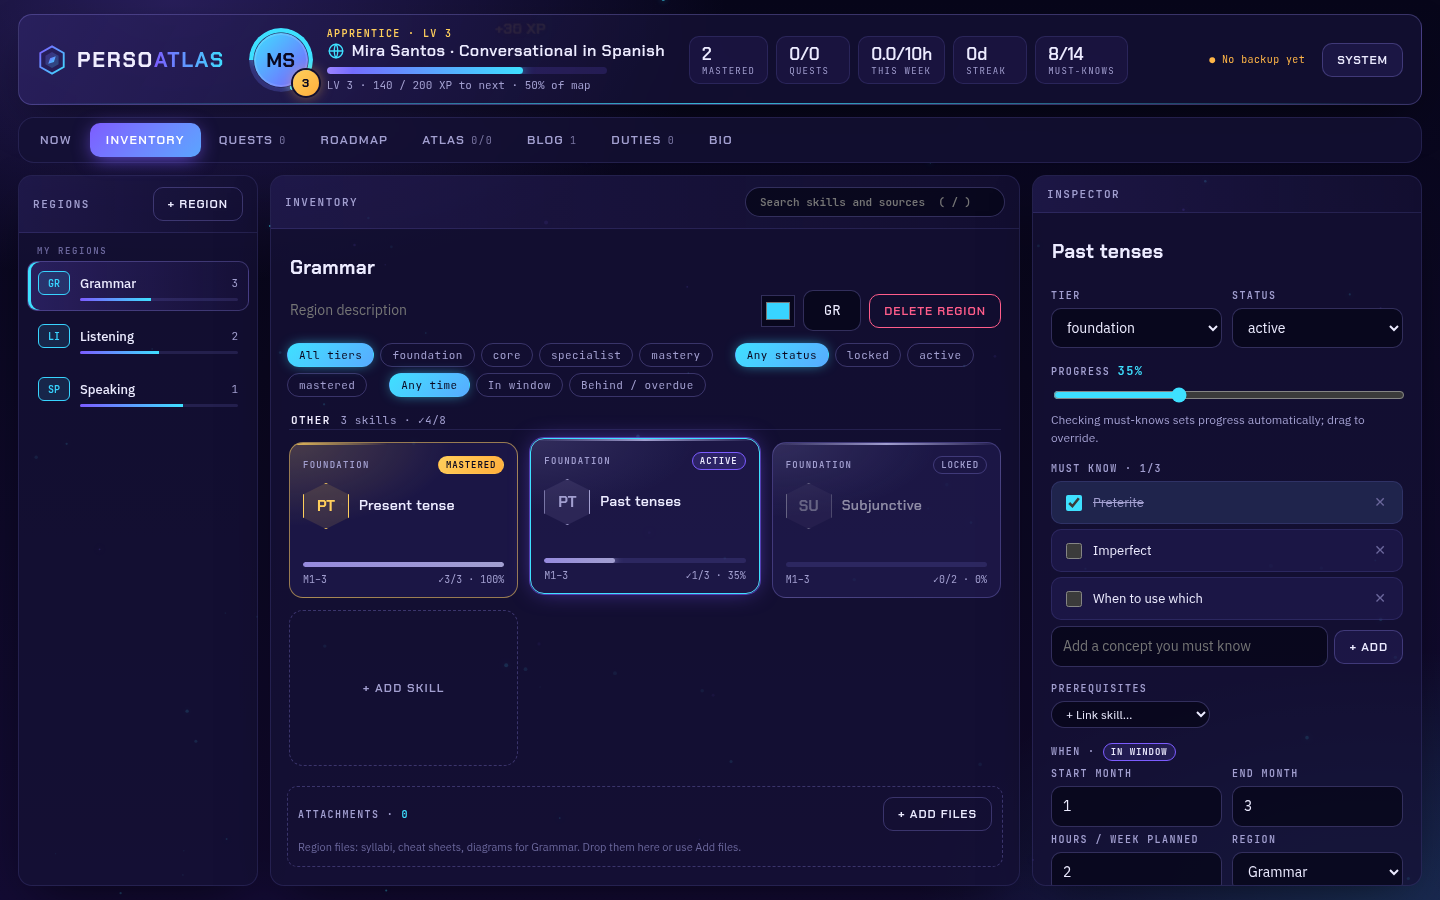
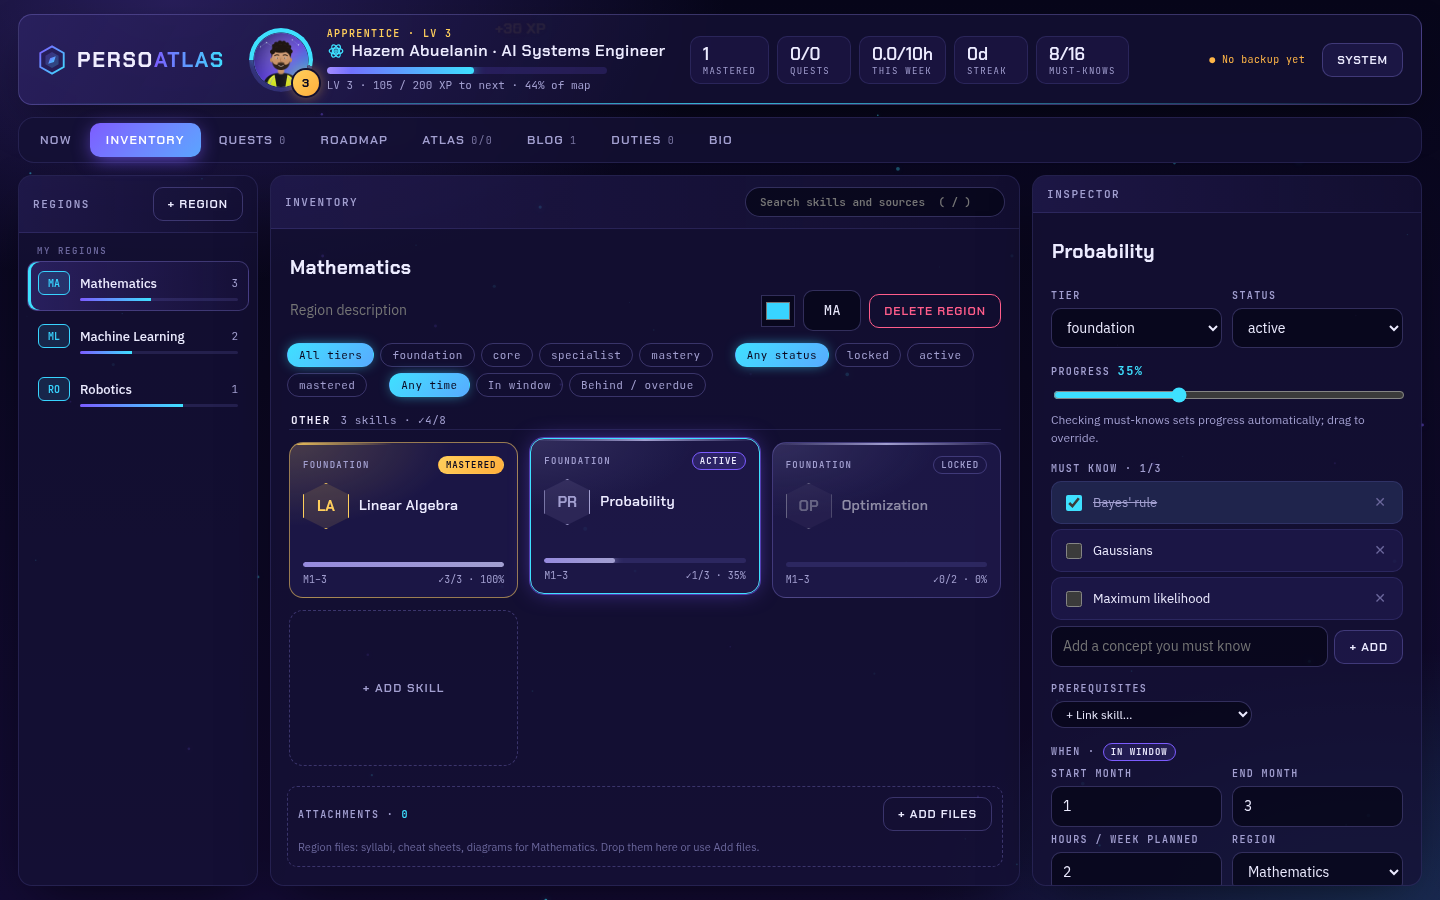
README: show the why and the value, with Hazem as the example profile
- New hero, motivation, feature gallery, at-a-glance table and launch options
- Screenshots regenerated with an illustrated example avatar and a small AI-themed sample map
- Screenshot script captures quests, atlas, settings and three themes

diff --git a/tests/e2e/screenshots.spec.js b/tests/e2e/screenshots.spec.js
@@ -1,4 +1,4 @@
-/* Regenerates the README screenshots from a small, made-up sample profile.
+/* Regenerates the README screenshots from a small, hand-written example profile (no pack content).
    Skipped unless SCREENSHOTS=1:   SCREENSHOTS=1 npx playwright test screenshots   */
 import { test, expect } from "@playwright/test";
 
@@ -7,17 +7,18 @@ test.setTimeout(120_000);
 
 const OUT = "docs/images";
 const SAMPLE = {
-  Grammar: [["Present tense", ["Regular -ar/-er/-ir verbs", "Ser vs. estar", "Stem-changing verbs"], 3], ["Past tenses", ["Preterite", "Imperfect", "When to use which"], 1], ["Subjunctive", ["Triggers (WEIRDO)", "Present subjunctive forms"], 0]],
-  Listening: [["Slow podcasts", ["Follow an episode without transcript", "Retell it in 3 sentences"], 2], ["Native-speed audio", ["Understand 70% of a news clip"], 0]],
-  Speaking: [["Daily conversation", ["Introduce yourself for 2 minutes", "Ask follow-up questions", "Recover when stuck"], 2]],
+  Mathematics: [["Linear Algebra", ["Vector spaces and rank", "SVD and least squares", "Eigen-decomposition"], 3], ["Probability", ["Bayes' rule", "Gaussians", "Maximum likelihood"], 1], ["Optimization", ["Gradient descent", "Gauss–Newton"], 0]],
+  "Machine Learning": [["Deep Learning Foundations", ["Backpropagation", "Convolutional networks", "Regularisation"], 2], ["Transformers", ["Self-attention", "Positional encoding"], 0]],
+  Robotics: [["ROS 2", ["Nodes and topics", "TF frames", "Launch files"], 2]],
 };
 
 test("README screenshots", async ({ page }) => {
   await page.goto("/");
   await expect(page.locator("#obName")).toBeVisible({ timeout: 8000 });
-  await page.fill("#obName", "Mira Santos");
-  await page.fill("#obTitle", "Conversational in Spanish");
-  await page.click('[data-emb="globe"]');
+  await page.fill("#obName", "Hazem Abuelanin");
+  await page.fill("#obTitle", "AI Systems Engineer");
+  await page.setInputFiles("#obAvaFile", `${OUT}/avatar-example.png`);
+  await page.click('[data-emb="atom"]');
   await page.waitForTimeout(300);
   await page.screenshot({ path: `${OUT}/character.png` });
   await page.click("#obNext");
@@ -30,7 +31,7 @@ test("README screenshots", async ({ page }) => {
   for (const [region, skills] of Object.entries(SAMPLE)) {
     await page.click("#addRegion");
     await page.fill("#rName", region); await page.locator("#rName").dispatchEvent("input");
-    await page.fill("#rCode", region.slice(0, 2).toUpperCase()); await page.locator("#rCode").dispatchEvent("input");
+    await page.fill("#rCode", region.split(" ").map(w => w[0]).join("").slice(0, 2).toUpperCase().padEnd(2, region[1].toUpperCase())); await page.locator("#rCode").dispatchEvent("input");
     for (const [name, musts, done] of skills) {
       await page.click("#addSkill");
       await page.fill("#sName", name); await page.locator("#sName").dispatchEvent("input");
@@ -46,16 +47,16 @@ test("README screenshots", async ({ page }) => {
 
   await page.click('.tab[data-view="atlas"]');
   await page.click("#aAdd2");
-  for (const [n, i] of [["Subjunctive mood", "Expresses wishes, doubt and emotion; triggered by certain verbs and conjunctions."], ["Comprehensible input", "You acquire language by understanding messages slightly above your level."], ["Shadowing", "Repeat audio a split-second behind the speaker to train rhythm and pronunciation."]]) {
-    await page.fill("#afName", n); if (await page.locator("#afNew").isVisible()) await page.fill("#afNew", "Ideas & methods");
+  for (const [n, i] of [["Transformer (2017)", "Attention-only sequence model; the backbone of modern language and vision models."], ["Kalman filter", "Optimal recursive estimator for linear-Gaussian systems: predict, then correct."], ["Backpropagation", "The chain rule applied efficiently to compute gradients through a network."]]) {
+    await page.fill("#afName", n); if (await page.locator("#afNew").isVisible()) await page.fill("#afNew", "Models & algorithms");
     await page.fill("#afIdea", i); await page.click("#atlForm button[type=submit]");
   }
   await page.click("#afCancel");
   await page.locator(".atl .astate").nth(1).click(); await page.locator(".atl .astate").nth(1).click(); await page.locator(".atl .astate").nth(2).click();
 
   await page.click('.tab[data-view="now"]');
-  await page.fill("#gText", "Finish the preterite worksheet"); await page.click("#goalForm button[type=submit]");
-  await page.fill("#gText", "Two podcast episodes"); await page.click("#goalForm button[type=submit]");
+  await page.fill("#gText", "Finish the SVD problem set"); await page.click("#goalForm button[type=submit]");
+  await page.fill("#gText", "Read two papers on attention"); await page.click("#goalForm button[type=submit]");
   await page.locator("summary", { hasText: "Log time by hand" }).click(); await page.fill("#lMin", "75"); await page.click("#logForm button[type=submit]");
   await page.evaluate(() => document.querySelectorAll(".unlock,.levelup").forEach(e => e.remove()));
   await page.waitForTimeout(500);
@@ -74,10 +75,33 @@ test("README screenshots", async ({ page }) => {
   await page.waitForTimeout(900);
   await page.screenshot({ path: `${OUT}/unlock.png` });
 
+  const clean = () => page.evaluate(() => document.querySelectorAll(".unlock,.levelup").forEach(e => e.remove()));
+
+  await page.click('.tab[data-view="quests"]');
+  await page.click("#addQuest");
+  await page.fill("#qName", "Autodiff engine from scratch"); await page.locator("#qName").dispatchEvent("input"); await page.locator("#qName").dispatchEvent("change"); await page.waitForTimeout(300);
+  await page.fill("#qDone", "Trains an MLP to 97% on MNIST using only my engine"); await page.locator("#qDone").dispatchEvent("input");
+  await page.locator("#qProves select").selectOption({ label: "Deep Learning Foundations" });
+  await page.locator("#qChk .chk").first().check();
+  await clean(); await page.evaluate(() => (document.querySelector("#questEd").scrollTop = 0)); await page.waitForTimeout(500);
+  await page.screenshot({ path: `${OUT}/quests.png` });
+
+  await page.click('.tab[data-view="atlas"]');
+  await clean(); await page.waitForTimeout(400);
+  await page.screenshot({ path: `${OUT}/atlas.png` });
+
+  await page.click('.tab[data-view="inv"]');
   await page.click("#sysBtn");
-  await page.click('#settings [data-theme-pick="daylight"]');
+  await page.waitForTimeout(500);
+  await page.screenshot({ path: `${OUT}/settings.png` });
+  for (const t of ["aurora", "ember", "daylight"]) {
+    await page.click(`#settings [data-theme-pick="${t}"]`);
+    await page.keyboard.press("Escape"); await clean(); await page.waitForTimeout(500);
+    await page.screenshot({ path: `${OUT}/theme-${t}.png` });
+    await page.click("#sysBtn"); await page.waitForTimeout(300);
+  }
   await page.keyboard.press("Escape");
-  await page.evaluate(() => document.querySelectorAll(".unlock,.levelup").forEach(e => e.remove()));
+  await clean();
   await page.click('.tab[data-view="map"]');
   await page.waitForTimeout(500);
   await page.screenshot({ path: `${OUT}/roadmap-daylight.png` });

diff --git a/README.md b/README.md
@@ -1,104 +1,133 @@
 <div align="center">
 
+<img src="docs/images/avatar-example.png" width="120" alt="Example avatar" style="border-radius:50%">
+
 # PersoAtlas
 
-**Turn whatever you're learning into a game you play for real.**
+### Your own atlas for a lifetime of learning, built like a game.
 
-A local-first, game-like atlas for any learning journey: a degree, a research project, a new career, a language, an instrument. Map the skills, plan the projects that prove them, track focus time, collect the ideas worth knowing, and level up as you go.
+Knowledge is vast, resources are endless, and there's always more to learn than time to learn it.<br>
+PersoAtlas lets you **map your journey, prove your progress, and level up** while you do it.
 
-No account. No server. Your data never leaves your browser. One HTML file.
+[![License: MIT](https://img.shields.io/badge/license-MIT-7c5cff.svg)](LICENSE)
+![Single file](https://img.shields.io/badge/ships%20as-one%20HTML%20file-3ee0ff.svg)
+![No server](https://img.shields.io/badge/server-none-4fe3b0.svg)
+![No tracking](https://img.shields.io/badge/network%20requests-0-ffcf5c.svg)
 
-[Try it](#getting-started) · [Features](#features) · [Content packs](#content-packs) · [Contributing](CONTRIBUTING.md)
+**[Launch it in your browser](https://hazemabuelanin.github.io/PersoAtlas/)** · [Download the single file](../../releases/latest) · [Features](#what-you-get) · [Content packs](#content-packs) · [Contributing](CONTRIBUTING.md)
 
-<img src="docs/images/inventory.png" alt="The skill inventory: regions on the left, skill cards in the middle, the inspector with must-knows on the right" width="900">
+<img src="docs/images/inventory.png" alt="The skill inventory" width="920">
 
 </div>
 
 ---
 
-## Why
+## Why this exists
 
-Knowledge is vast and resources are endless. Most learners keep a roadmap in one app, notes in another, projects in a third, and progress nowhere at all. PersoAtlas puts the whole journey on one map, a map you build yourself, and makes moving across it feel like progress in a game: XP, levels, ranks, unlocks and a trophy room.
+Whether you're becoming an engineer, a researcher, a doctor, a designer or a polyglot, the hard part isn't finding material. It's **keeping the whole journey in one place**: what you need to know, in what order, what you've actually mastered, what you've built to prove it, and how much time you really put in.
 
-It works for anyone:
+Roadmaps live in one app, notes in another, projects in a third, and progress nowhere. So we lose track, start over, and forget what we learned.
 
-| You are… | Your map might hold… |
-|---|---|
-| A **student** | Courses as regions, topics as skills, exams and assignments as quests, a study journal |
-| A **researcher** | Literature, methods and statistics as regions; milestones (proposal, first paper, thesis) as quests; a methods atlas |
-| An **engineer** | Foundations → specialisation, portfolio projects as quests, an atlas of algorithms and tools |
-| A **career changer** | The skills a new role needs, the projects that prove them, applications as experience |
-| **Anyone learning anything** | Spanish, guitar, painting, cooking: the vocabulary adapts to you |
+PersoAtlas is a single place for all of it, with three beliefs behind it:
 
-## Features
+1. **Keep your own atlas.** Nobody else's roadmap fits you exactly. You build your map, at your pace, in your words.
+2. **Open and yours.** Open source, no account, no server, no tracking. Your data lives in your browser and your backups, and you can change anything about the app itself.
+3. **Learning should feel like play.** Life is a game worth playing well: XP, levels, ranks, unlocks and trophies make steady progress visible and fun, and you can switch them off if you prefer it calm.
+
+## What you get
 
 <table>
-<tr><td width="50%"><img src="docs/images/character.png" alt="Character creation"></td><td width="50%"><img src="docs/images/unlock.png" alt="A level-up moment"></td></tr>
-<tr><td><b>Create your character.</b> A picture, a name, what you're becoming, an emblem, a theme. A loading screen greets you with your avatar and rank every time.</td><td><b>Feels like a game.</b> XP and levels, rank titles, unlock cards, a level-up screen, a trophy room with 28 achievements, optional sound effects. Or switch the game layer off entirely.</td></tr>
-<tr><td><img src="docs/images/now.png" alt="The Now dashboard"></td><td><img src="docs/images/profile.png" alt="Profile card and trophy room"></td></tr>
-<tr><td><b>Now.</b> Where you stand against your plan, weekly goals and review, a focus timer, a session log, what's due this month, and starter quests that teach you the app.</td><td><b>Profile.</b> A shareable player card with banner, emblem, motto and links, plus your trophy room.</td></tr>
+<tr>
+<td width="50%"><img src="docs/images/character.png" alt="Character creation"><br><b>Create your character.</b> Picture, name, what you're becoming, an emblem and a theme. A loading screen greets you with your avatar, level and rank.</td>
+<td width="50%"><img src="docs/images/unlock.png" alt="Level-up"><br><b>Play it like a game.</b> XP on everything you do, nine ranks from <i>Novice</i> to <i>Mythic</i>, unlock cards, a level-up screen and 28 trophies. Sound is optional, and the whole layer can be switched off.</td>
+</tr>
+<tr>
+<td><img src="docs/images/now.png" alt="Now dashboard"><br><b>Now.</b> Where you stand against your plan, weekly goals and review, a focus timer, a session log and streaks, plus starter quests that teach the app as you use it.</td>
+<td><img src="docs/images/quests.png" alt="Quests"><br><b>Quests.</b> Projects that prove your skills, each with a time window, a measurable “done when” and deliverables.</td>
+</tr>
+<tr>
+<td><img src="docs/images/atlas.png" alt="Atlas"><br><b>Atlas.</b> Your index of the ideas, models, methods or works that matter, marked as <i>understood</i> or <i>applied</i>.</td>
+<td><img src="docs/images/profile.png" alt="Profile and trophies"><br><b>Profile.</b> A shareable player card with banner, emblem, motto and links, plus your trophy room.</td>
+</tr>
+<tr>
+<td><img src="docs/images/roadmap-daylight.png" alt="Roadmap"><br><b>Roadmap.</b> Every skill and quest on one timeline of any length (1 month to 20 years), with phases, planned load and conflict checks.</td>
+<td><img src="docs/images/settings.png" alt="Settings"><br><b>Everything is configurable.</b> Rename every tab and term, hide tabs, change the plan length, keep several profiles, and back up to a folder.</td>
+</tr>
 </table>
 
-- **Inventory**: regions (areas) of skills, each with a tier, a time window, hours per week, must-knows that drive progress, prerequisites, sources and attachments.
-- **Quests**: projects with a "done when" bar and deliverables, linked to the skills they prove.
-- **Roadmap**: a timeline of every skill and quest across your plan (any length, from 1 month to 20 years), with phases, a planned-load chart and conflict detection.
-- **Atlas**: your index of the ideas, methods, works or tools worth knowing, each marked at three levels.
-- **Journal** (Blog), **Experience** (Duties) and **Profile**: write up what you learned, log real-world work as CV-ready entries, and present yourself.
-- **Your words**: rename every tab and term (Inventory → Subjects, Quests → Projects…), or pick the *Game*, *Academic* or *Plain* vocabulary. Hide tabs you don't need.
-- **Six themes**: Nebula, Abyss, Aurora, Ember, Sakura and the light Daylight theme, plus banners and emblems.
-- **Several profiles** in one browser, each fully separate.
-- **Attachments**: drop PDFs, images, notes and code onto anything, with in-app previews.
-- **Your data, your disk**: backups include every attachment; link a folder (Chrome/Edge) to sync every change to disk or a cloud-synced drive.
-- **Accessible and calm**: keyboard-friendly, respects *reduced motion*, effects and sound can be turned off.
+<div align="center">
+<img src="docs/images/theme-aurora.png" width="32%" alt="Aurora theme"> <img src="docs/images/theme-ember.png" width="32%" alt="Ember theme"> <img src="docs/images/theme-daylight.png" width="32%" alt="Daylight theme"><br>
+<sub>Six themes: Nebula, Abyss, Aurora, Ember, Sakura and the light Daylight theme</sub>
+</div>
 
-<img src="docs/images/roadmap-daylight.png" alt="The roadmap in the Daylight theme" width="900">
+### Built for anyone who learns
+
+| You are… | Your atlas holds… |
+|---|---|
+| A **student** | Courses as regions, topics as skills, exams and assignments as quests, a study journal |
+| A **researcher** | Literature, methods and statistics; milestones (proposal, first paper, thesis); a methods atlas |
+| An **engineer** | Foundations → specialisation, portfolio projects, an atlas of models, algorithms and tools |
+| A **career changer** | The skills a new role needs, the projects that prove them, applications as experience |
+| **Anyone** | Spanish, guitar, painting, chess: the vocabulary bends to you (*Game*, *Academic*, *Plain* or your own words) |
+
+### At a glance
+
+| | |
+|---|---|
+| **8 views** | Now · Inventory · Quests · Roadmap · Atlas · Journal · Experience · Profile |
+| **Game layer** | XP, levels, 9 ranks, 28 trophies, unlock moments, level-up screen, optional sound |
+| **Personal** | 6 themes, 7 banners, 12 emblems, your picture, 3 vocabularies plus custom wording, hideable tabs |
+| **Your data** | Browser storage, one-file backups with attachments, folder sync, several profiles |
+| **Shareable curricula** | Content packs in YAML, schema-validated, upgradable without losing progress |
+| **Footprint** | One ~640 KB HTML file · works offline · no account · no server · zero network requests |
+| **Quality** | Unit tests for the data model, migrations and achievements; end-to-end browser tests; CI |
 
 ## Getting started
 
-**Use it.** Download `index.html` from the [latest release](../../releases/latest) and open it in any modern browser, or open the hosted copy on GitHub Pages. That's it: it's one self-contained file that works offline.
+| How | Steps |
+|---|---|
+| **In the browser** | Open **https://hazemabuelanin.github.io/PersoAtlas/**. Nothing to install. |
+| **Offline, one file** | Download `index.html` from the [latest release](../../releases/latest) and double-click it. |
+| **From source** | `git clone git@github.com:HazemAbuelanin/PersoAtlas.git && cd PersoAtlas && npm install && npm run dev` → http://localhost:5173 |
 
-**Run it from source.**
+Build the single-file app yourself with `npm run build`; the result is `dist/index.html`. Requires Node 20+.
 
-```bash
-git clone <this repository>
-cd persoatlas
-npm install
-npm run dev        # http://localhost:5173
-npm run build      # → dist/index.html, the single-file app
-```
+## Your data stays yours
 
-Requires Node 20+.
-
-## Your data
-
-Everything lives in your browser's storage (`localStorage` for your atlas, IndexedDB for attachments). Nothing is sent anywhere; the app makes no network requests at all. Browsers can clear storage under disk pressure, so:
+Everything is stored in your browser (`localStorage` for your atlas, IndexedDB for attachments). The app makes **no network requests**. Because browsers can clear storage under pressure:
 
 - **Export** a backup now and then (System → Export backup). It's one JSON file with every attachment inside.
-- Or **link a backup folder** (Chrome/Edge): every change is written to disk. Put the folder in Dropbox/Drive/OneDrive to use the same atlas on several computers.
-
-Restore a backup from the first screen (*Restore a backup*) or from System → Import backup.
+- Or **link a backup folder** (Chrome/Edge) and every change is written to disk. Keep it in Dropbox/Drive/OneDrive to use the same atlas on several computers.
 
 ## Content packs
 
-PersoAtlas ships **empty**. You build your own map, or start from a **content pack**: a curriculum someone wrote (regions, skills, quests, atlas entries, plan, vocabulary) as a few YAML files.
+PersoAtlas ships **empty**, and you build your own map. You can also start from a **content pack**: a curriculum someone wrote (regions, skills, quests, atlas entries, plan, vocabulary) as a few YAML files.
 
-- **Use a pack**: on the first screen choose *Start from a pack file* and pick a `.json` pack.
-- **Write a pack**: see [docs/writing-a-pack.md](docs/writing-a-pack.md). Keep it anywhere, build it with
-  `node scripts/build-packs.mjs --dir ~/my-packs`, and import the resulting JSON.
-- **Upgrades keep progress**: when a pack author publishes a new revision, load it (System → Update from pack file) and the new content merges in. Your progress, notes and your own additions are kept.
+- **Use one**: on the first screen choose *Start from a pack file*.
+- **Write one**: copy [`docs/pack-template`](docs/pack-template), follow [docs/writing-a-pack.md](docs/writing-a-pack.md), then `node scripts/build-packs.mjs --dir ~/my-packs`.
+- **Upgrade without loss**: when a pack gets a new revision, load it (System → Update from pack file). New content merges in, and your progress, notes and own additions stay.
 
-## Tech
+## Under the hood
 
-Vanilla JavaScript ES modules, no framework, no runtime dependencies. Vite bundles everything (code, styles, fonts and the built-in Blank map) into one HTML file. Data logic is pure and unit-tested with Vitest; the whole app is tested end to end in Chrome with Playwright. See [docs/architecture.md](docs/architecture.md).
+Vanilla JavaScript ES modules, no framework and no runtime dependencies. Vite inlines code, styles and fonts into one HTML file. The data model is pure and unit-tested (Vitest), and the whole app is tested end to end in Chrome (Playwright). Read [docs/architecture.md](docs/architecture.md).
 
 ```bash
-npm run check      # lint, validate packs, unit tests, build, end-to-end tests
+npm run check      # lint · validate packs · unit tests · build · end-to-end tests
 ```
+
+## Roadmap
+
+- Translations (i18n)
+- Installable app (PWA)
+- A gallery of community content packs
+- Optional encrypted sync between devices
 
 ## Contributing
 
-Bug reports, ideas, translations, themes and packs are all welcome. Read [CONTRIBUTING.md](CONTRIBUTING.md) to get started, and please follow the [Code of Conduct](CODE_OF_CONDUCT.md).
+Ideas, bug reports, themes, emblems, trophies, translations and packs are all welcome. Start with [CONTRIBUTING.md](CONTRIBUTING.md) and the [Code of Conduct](CODE_OF_CONDUCT.md).
 
 ## License
 
-Code: [MIT](LICENSE). Content packs carry their own license in their `pack.yaml`.
+Code is [MIT](LICENSE). Content packs carry their own license in their `pack.yaml`.
+
+<div align="center"><sub>Made by <a href="https://github.com/HazemAbuelanin">Hazem Abuelanin</a>, for everyone who keeps learning.</sub></div>
